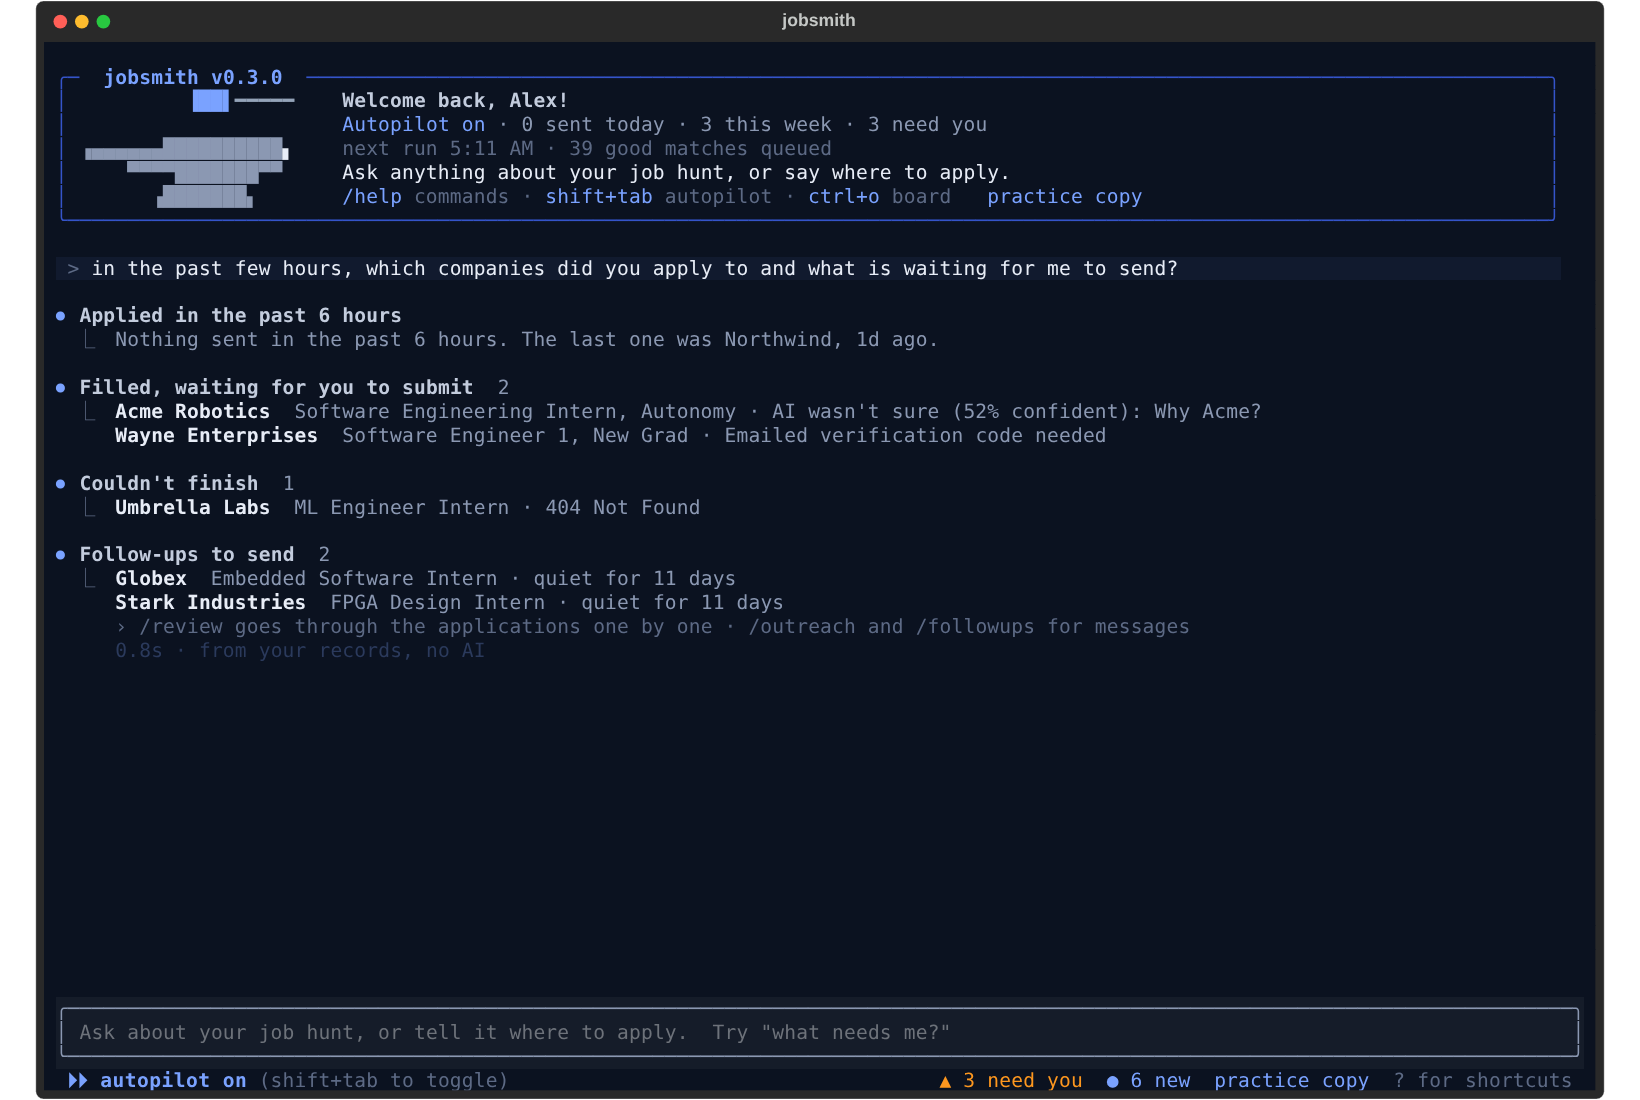
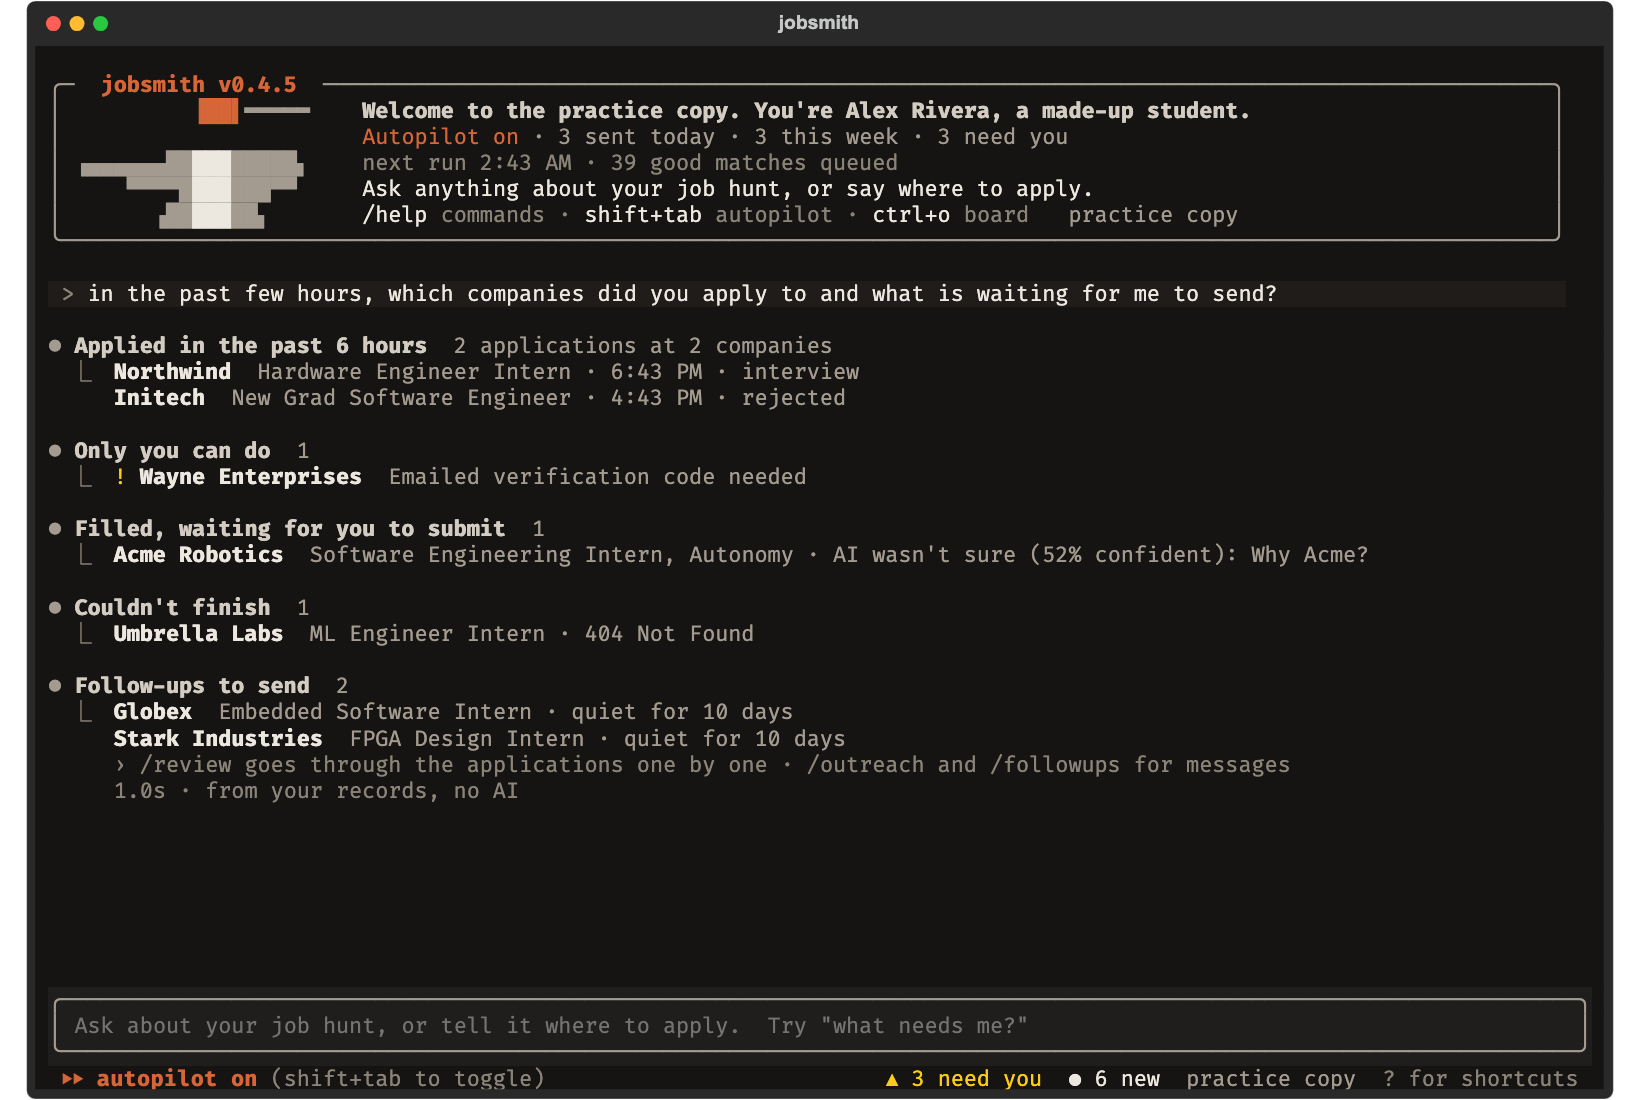
Give the terminal app the same warm charcoal
Match the dashboard's dark theme: warm charcoal instead of navy, the
lifted orange only for the logo, autopilot on, where you are, focus and
progress, and the status colours pinned to the dashboard's ochre, green
and crimson instead of the terminal's own yellow, green and red. Dim
text that sat at 1.8:1 now passes AA.

diff --git a/jobsmith/tuiapp.py b/jobsmith/tuiapp.py
@@ -31,15 +31,21 @@ from textual.css.query import NoMatches
 from textual.screen import ModalScreen, Screen
 from textual.widgets import DataTable, Footer, Input, Static, TextArea
 
-EMBER = "#7aa2ff"     # cobalt: the accent (named after the forge)
-EMBER_HI = "#c7d7ff"
-EMBER_LO = "#3554c9"
-STEEL = "#8b98b2"
-INK = "#e8edf7"
-DIM = "#5d6a85"
-FAINT = "#2b3a5c"
-BG = "#0b1220"
-SPARK = "#a5f3fc"
+# Warm charcoal like the dashboard's dark theme. EMBER is the extension panel's orange lifted for a dark background
+# (same hue), kept for the logo, "autopilot on", where you are, focus and progress; everything else is ink or grey.
+EMBER = "#d66638"     # the accent (named after the forge)
+EMBER_HI = "#ece7df"
+EMBER_LO = "#a39b90"
+STEEL = "#a39b90"
+INK = "#ece7df"
+DIM = "#8a8378"
+FAINT = "#403a34"
+BG = "#161412"
+CARD = "#1f1c19"
+WARN = "#facc15"
+OK = "#4ade80"
+BAD = "#fb7185"
+SPARK = "#ece7df"
 SPIN = "⠋⠙⠹⠸⠼⠴⠦⠧⠇⠏"
 STAR = "·✢✳✶✻✽✻✶✳✢"
 VERBS = ["Forging", "Hammering", "Tempering", "Smelting", "Annealing", "Quenching", "Riveting", "Smithing", "Shaping", "Polishing"]
@@ -62,7 +68,7 @@ LOGO = [
      "    ▀▀▀▀███████▀▀  ",
      "      ▗███████▖    "],
 ]
-WOOD = "#94a3b8"
+WOOD = "#a39b90"
 
 
 def logo_text(frame: int, glint: int = -1) -> Text:
@@ -131,7 +137,7 @@ class AskLine(ModalScreen[str]):
     """One line of input: a code, a key (hidden), a value."""
     DEFAULT_CSS = f"""
     AskLine {{ align: center middle; background: {BG} 60%; }}
-    #dlg {{ width: 70; height: auto; padding: 1 2; border: round {EMBER}; background: #111a2e; }}
+    #dlg {{ width: 70; height: auto; padding: 1 2; border: round {EMBER}; background: {CARD}; }}
     #hint {{ color: {DIM}; margin-top: 1; }}
     """
 
@@ -156,7 +162,7 @@ class AskLine(ModalScreen[str]):
 class EditAnswer(ModalScreen[str | None]):
     DEFAULT_CSS = f"""
     EditAnswer {{ align: center middle; background: {BG} 60%; }}
-    #dlg {{ width: 90%; height: 80%; padding: 1 2; border: round {EMBER}; background: #111a2e; }}
+    #dlg {{ width: 90%; height: 80%; padding: 1 2; border: round {EMBER}; background: {CARD}; }}
     #q {{ margin-bottom: 1; }}
     TextArea {{ height: 1fr; }}
     #hint {{ color: {DIM}; margin-top: 1; }}
@@ -215,17 +221,17 @@ class View(Screen):
     BINDINGS = [Binding("escape", "app.pop_screen", "Back")]
     DEFAULT_CSS = f"""
     View {{ background: {BG}; }}
-    .title {{ height: 1; padding: 0 1; background: #111a2e; }}
-    .panel {{ border: round #1e2a44; border-title-color: {STEEL}; padding: 0 1; background: {BG}; }}
+    .title {{ height: 1; padding: 0 1; background: {CARD}; }}
+    .panel {{ border: round #2f2b27; border-title-color: {STEEL}; padding: 0 1; background: {BG}; }}
     .panel:focus-within {{ border: round {EMBER}; border-title-color: {EMBER}; }}
     DataTable {{ background: {BG}; height: 1fr; scrollbar-size-horizontal: 0; scrollbar-size-vertical: 1;
                  scrollbar-color: {FAINT}; scrollbar-background: {BG}; }}
-    DataTable > .datatable--cursor {{ background: #1b2741; color: #f1f5ff; }}
+    DataTable > .datatable--cursor {{ background: #2a2622; color: {INK}; }}
     DataTable > .datatable--header {{ color: {DIM}; background: {BG}; }}
     .detail {{ height: 1fr; }}
     .fill {{ height: 1fr; }}
     #jobs {{ height: 1fr; }}
-    Footer {{ background: #111a2e; }}
+    Footer {{ background: {CARD}; }}
     """
 
     @property
@@ -291,7 +297,7 @@ class Review(View):
         keep = t.cursor_row
         t.clear()
         for r in rows:
-            mark = Text("✗", style="red") if r["status"] == "error" else Text("!", style="yellow")
+            mark = Text("✗", style=BAD) if r["status"] == "error" else Text("!", style=WARN)
             t.add_row(mark, Text(r["company"][:20], style="bold"), (r.get("hold_reason") or r.get("error") or "ready to submit")[:40], key=r["id"])
         self.query_one("#t", Static).update(self.heading((f"Review  {len(rows)} waiting for you", "bold"),
                                                        ("   a approve · e edit · s submit · k skip · esc back", DIM)))
@@ -327,8 +333,8 @@ class Review(View):
         t.clear()
         for x in self.drafts:
             val = (x.get("final_answer") or x.get("answer") or "").replace("\n", " ")
-            mark = (Text("✓", style="green") if x["verdict"] == "green" or x.get("final_answer") else
-                    Text("!", style="yellow") if self._problem(x, blockers) else Text("·", style=DIM))
+            mark = (Text("✓", style=OK) if x["verdict"] == "green" or x.get("final_answer") else
+                    Text("!", style=WARN) if self._problem(x, blockers) else Text("·", style=DIM))
             t.add_row(mark, x["label"][:46], Text(val[:60] or "(empty)", style=INK if val else "italic " + DIM), key=str(x["id"]))
         t.border_title = (f"{self.job['company']} · {self.job['title']}"[:70] +
                           ("   no answers yet" if not self.drafts else f"   {len(blockers)} to check" if blockers else "   ready to submit"))
@@ -338,7 +344,7 @@ class Review(View):
         else:
             why = self.job.get("hold_reason") or self.job.get("error") or ""
             self.query_one("#detail", Static).update(Group(
-                Text(why, style="yellow") if why else Text(""), Text(""),
+                Text(why, style=WARN) if why else Text(""), Text(""),
                 Text("Jobsmith hasn't drafted answers for this one yet. Press s to fill it in the browser; "
                      "it comes back here if anything needs you.", style=STEEL)))
 
@@ -368,7 +374,7 @@ class Review(View):
         if meta:
             parts += [Text(""), Text(" · ".join(meta), style=DIM)]
         for i in x.get("issues") or []:
-            parts.append(Text(f"! {i}", style="yellow"))
+            parts.append(Text(f"! {i}", style=WARN))
         if x.get("facts"):
             parts += [Text(""), Text("Based on", style=DIM)] + [Text(f"  {f.get('text', '')[:140]}", style=DIM) for f in x["facts"][:4]]
         self.query_one("#detail", Static).update(Group(*parts))
@@ -458,7 +464,7 @@ class Matches(View):
         self.rows = {r["id"]: r for r in rows}
         for j in rows:
             fit = round(j.get("fit_score") or 0)
-            t.add_row(Text(f"{fit:>3}", style=EMBER if fit >= 70 else INK if fit >= 50 else DIM), Text(j["company"][:22], style="bold"),
+            t.add_row(Text(f"{fit:>3}", style=f"bold {INK}" if fit >= 70 else INK if fit >= 50 else DIM), Text(j["company"][:22], style="bold"),
                       j["title"][:46], (j.get("locations") or [""])[0][:22], j.get("pay") or "", ago(j.get("date_posted")), key=j["id"])
         self.query_one("#t", Static).update(self.heading((f"Matches  {len(rows)}", "bold"), ("   enter apply · f fill only · x not for me · o open · esc back", DIM)))
         t.focus()
@@ -531,7 +537,7 @@ class Outreach(View):
                 dr = next((x for x in c["drafts"] if x["person"] == name), None)
                 k = f"{c['job_id']}|{name}"
                 self.rows[k] = {"company": c["company"], "job_id": c["job_id"], "person": p, "draft": dr}
-                status = Text("sent", style="green") if dr and dr["sent_at"] else Text("drafted", style=EMBER) if dr else Text("")
+                status = Text("sent", style=OK) if dr and dr["sent_at"] else Text("drafted", style=STEEL) if dr else Text("")
                 t.add_row(Text(c["company"][:22], style="bold"), name, (p.get("position") or "")[:34], status, key=k)
         self.query_one("#t", Static).update(self.heading(("Outreach", "bold"), ("   r referral ask · n recruiter note · y copy · s I sent it · esc back", DIM)))
         if not self.rows:
@@ -566,7 +572,7 @@ class Outreach(View):
         r = self.sel()
         if not r:
             return
-        self.app.call_from_thread(self.query_one("#detail", Static).update, Text("Drafting…", style=EMBER))
+        self.app.call_from_thread(self.query_one("#detail", Static).update, Text("Drafting…", style=STEEL))
         d = self.send("POST", "/api/outreach/draft", {"job_id": r["job_id"], "person": r["person"], "kind": kind}, timeout=120)
         self.last = d if not d.get("error") else {}
         self.app.call_from_thread(self.load)
@@ -685,7 +691,7 @@ class Settings(View):
             shown = ("set" if v else "not set") if opts is None else str(v if v not in (None, "") else "auto")
             if k == "autopilot_min_confidence" and v not in (None, ""):
                 shown = f"{round(float(v) * 100)}% confident"
-            t.add_row(Text(label, style="bold"), Text(shown, style=EMBER if opts is None and v else INK), Text("enter to change", style=DIM), key=k)
+            t.add_row(Text(label, style="bold"), Text(shown, style=f"bold {INK}" if opts is None and v else INK), Text("enter to change", style=DIM), key=k)
         t.move_cursor(row=min(keep, t.row_count - 1))
         t.focus()
         self.query_one("#t", Static).update(self.heading(("Settings", "bold"), ("   enter change · esc back", DIM)))
@@ -753,7 +759,7 @@ class Board(View):
             tab = tabs.get(jid, {})
             pr = (st.get("progress") or {}).get(jid) or {"step": 0, "total": 5, "label": ""}
             ph = tab.get("phase") or st["active"].get(jid, "")
-            mark = (Text("✓", style="green") if ph == "submitted" else Text("!", style="yellow") if ph in ("code", "review", "error")
+            mark = (Text("✓", style=OK) if ph == "submitted" else Text("!", style=WARN) if ph in ("code", "review", "error")
                     else Text(SPIN[self.app.frame % len(SPIN)], style=EMBER))
             company, title = self.app.job_name(jid, tab)
             t.add_row(mark, Text(company, style="bold"), title[:40], bar(pr["step"], pr["total"]),
@@ -765,13 +771,13 @@ class Board(View):
         k2 = n.cursor_row
         n.clear()
         for r in (home or {}).get("review", [])[:30]:
-            n.add_row(Text("!", style="yellow"), Text(r["company"], style="bold"), (r.get("hold_reason") or r.get("error") or "ready")[:60], key=r["id"])
+            n.add_row(Text("!", style=WARN), Text(r["company"], style="bold"), (r.get("hold_reason") or r.get("error") or "ready")[:60], key=r["id"])
         n.move_cursor(row=min(k2, max(0, n.row_count - 1)))
         b = self.query_one("#bell", DataTable)
         k3 = b.cursor_row
         b.clear()
         for it in (notes or {}).get("items", [])[:30]:
-            mark = Text("●", style=EMBER) if it.get("urgent") else Text("•", style=EMBER if it.get("unread") else FAINT)
+            mark = Text("●", style=WARN) if it.get("urgent") else Text("•", style=INK if it.get("unread") else DIM)
             b.add_row(mark, it["title"][:60], time.strftime("%I:%M", time.localtime(it["at"])).lstrip("0") if it.get("at") else "", key=it["id"])
         b.move_cursor(row=min(k3, max(0, b.row_count - 1)))
         self.query_one("#t", Static).update(self.heading(("Board", "bold"), ("   live from your engine · r review · w watch · t take over · esc back", DIM)))
@@ -833,18 +839,18 @@ class Prompt(Input):
 class Jobsmith(App):
     TITLE = "jobsmith"
     CSS = f"""
-    Screen {{ background: {BG}; color: #c3ccdd; layers: base; }}
+    Screen {{ background: {BG}; color: #d2ccc2; layers: base; }}
     #chat {{ height: 1fr; padding: 0 1; scrollbar-size-vertical: 1; scrollbar-color: {FAINT}; scrollbar-background: {BG}; }}
     #welcome {{ height: auto; border: round {EMBER_LO}; border-title-color: {EMBER}; border-title-style: bold; padding: 0 1; margin: 1 0; }}
     #logo {{ width: 21; height: 5; }}
     #hello {{ width: 1fr; height: auto; padding-left: 1; }}
-    .you {{ color: {STEEL}; background: #111a2e; padding: 0 1; margin-top: 1; }}
+    .you {{ color: {STEEL}; background: {CARD}; padding: 0 1; margin-top: 1; }}
     .blk {{ height: auto; }}
     .gap {{ margin-top: 1; }}
     #think {{ height: auto; padding: 0 1; display: none; }}
     #live {{ height: auto; padding: 0 1; display: none; }}
     #menu {{ height: auto; padding: 0 2; display: none; }}
-    #prompt {{ height: 3; border: round #2b3a5c; background: {BG}; margin: 0 1; padding: 0 1; }}
+    #prompt {{ height: 3; border: round {FAINT}; background: {BG}; margin: 0 1; padding: 0 1; }}
     #prompt:focus {{ border: round {STEEL}; }}
     #status {{ height: 1; padding: 0 2; }}
     """
@@ -923,8 +929,8 @@ class Jobsmith(App):
                           ("Autopilot " + ("on" if on else "off"), EMBER if on else STEEL), (" · " + " · ".join(bits) if home else "", STEEL), "\n",
                           (" · ".join(more), DIM), "\n",
                           ("Ask anything about your job hunt, or say where to apply.", INK), "\n",
-                          ("/help", EMBER), (" commands · ", DIM), ("shift+tab", EMBER), (" autopilot · ", DIM), ("ctrl+o", EMBER), (" board", DIM),
-                          ("   practice copy" if st.get("demo") else "", EMBER))
+                          ("/help", INK), (" commands · ", DIM), ("shift+tab", INK), (" autopilot · ", DIM), ("ctrl+o", INK), (" board", DIM),
+                          ("   practice copy" if st.get("demo") else "", STEEL))
         self.query_one("#hello", Static).update(t)
 
     # ------------------------------------------------------------------ the conversation
@@ -937,19 +943,19 @@ class Jobsmith(App):
         self.mount_block(Text.assemble(("> ", DIM), (text, INK)), "you")
 
     def say(self, markup: str) -> None:
-        self.mount_block(Text.assemble(("⏺ ", EMBER), Text.from_markup(markup)), "blk gap")
+        self.mount_block(Text.assemble(("⏺ ", STEEL), Text.from_markup(markup)), "blk gap")
 
     def render_block(self, b: dict, first: bool) -> Text | Table:
         t = b.get("t")
         lead = ("  ⎿  " if first else "     ", DIM)
         if t == "head":
             title, _, count = b["text"].partition("  ")
-            return Text.assemble(("⏺ ", EMBER), (title, "bold"), (f"  {count}" if count else "", STEEL))
+            return Text.assemble(("⏺ ", STEEL), (title, "bold"), (f"  {count}" if count else "", STEEL))
         if t == "item":
-            mark = ("! ", "yellow") if b.get("urgent") else (SPIN[self.frame % len(SPIN)] + " ", EMBER) if b.get("live") else ("", "")
+            mark = ("! ", WARN) if b.get("urgent") else (SPIN[self.frame % len(SPIN)] + " ", EMBER) if b.get("live") else ("", "")
             return Text.assemble(lead, mark, (b["text"], "bold " + INK), ("  " + b.get("meta", ""), STEEL) if b.get("meta") else "")
         if t == "stat":
-            return Text.assemble(lead, (f"{b['text']:>5}", f"bold {EMBER}"), ("  " + b.get("meta", ""), INK))
+            return Text.assemble(lead, (f"{b['text']:>5}", f"bold {INK}"), ("  " + b.get("meta", ""), INK))
         if t == "qa":
             return Text.assemble(lead, (b["text"], "bold"), "\n", ("       " + b.get("meta", "").replace("\n", "\n       "), STEEL))
         if t == "example":
@@ -993,7 +999,7 @@ class Jobsmith(App):
         if self.cancel:
             self.call_from_thread(self.mount_block, Text("  ⎿  Interrupted", style=DIM))
         elif n:
-            self.call_from_thread(self.mount_block, Text(f"     {time.time() - t0:.1f}s · from your records, no AI", style=FAINT))
+            self.call_from_thread(self.mount_block, Text(f"     {time.time() - t0:.1f}s · from your records, no AI", style=DIM))
 
     _last_t = ""
 
@@ -1146,9 +1152,9 @@ class Jobsmith(App):
 
     def show_help(self, short: bool = False) -> None:
         if short:
-            self.mount_block(Text.assemble(("  shift+tab ", EMBER), ("autopilot on/off   ", DIM), ("ctrl+o ", EMBER), ("board   ", DIM),
-                                           ("/ ", EMBER), ("commands   ", DIM), ("↑ ", EMBER), ("history   ", DIM), ("esc ", EMBER), ("cancel   ", DIM),
-                                           ("ctrl+c ", EMBER), ("twice to quit", DIM)), "blk gap")
+            self.mount_block(Text.assemble(("  shift+tab ", INK), ("autopilot on/off   ", DIM), ("ctrl+o ", INK), ("board   ", DIM),
+                                           ("/ ", INK), ("commands   ", DIM), ("↑ ", INK), ("history   ", DIM), ("esc ", INK), ("cancel   ", DIM),
+                                           ("ctrl+c ", INK), ("twice to quit", DIM)), "blk gap")
             return
         self.say("[b]Ask[/] anything about your job hunt. Answers come from your records, instantly, with no AI:")
         from .ask import EXAMPLES
@@ -1156,7 +1162,7 @@ class Jobsmith(App):
             self.mount_block(Text.assemble(("  ⎿  " if i == 0 else "     ", DIM), ("“" + ex + "”", EMBER_HI)))
         self.say("[b]Tell it where to apply[/]: a company and role, a job link, or a GitHub list.")
         t = Table.grid(padding=(0, 2))
-        t.add_column(style=EMBER, no_wrap=True)
+        t.add_column(style=INK, no_wrap=True)
         t.add_column(style=STEEL, no_wrap=True)
         t.add_column(style=INK)
         for name, args, what in COMMANDS:
@@ -1366,16 +1372,16 @@ class Jobsmith(App):
         left = Text.assemble(("⏵⏵ autopilot on", f"bold {EMBER}") if on else ("⏸ autopilot off", STEEL), (" (shift+tab to toggle)", DIM))
         right = []
         if time.time() - self.ctrl_c_at < 1.5:
-            right = [("Press ctrl+c again to exit", "yellow")]
+            right = [("Press ctrl+c again to exit", WARN)]
         else:
             if st.get("needs_you"):
-                right += [(f"▲ {st['needs_you']} need you", "yellow"), ("  ", "")]
+                right += [(f"▲ {st['needs_you']} need you", WARN), ("  ", "")]
             if notes.get("unread"):
-                right += [(f"● {notes['unread']} new", EMBER), ("  ", "")]
+                right += [(f"● {notes['unread']} new", INK), ("  ", "")]
             if self.connected is False:
-                right += [("engine offline", "red"), ("  ", "")]
+                right += [("engine offline", BAD), ("  ", "")]
             if st.get("demo"):
-                right += [("practice copy", EMBER), ("  ", "")]
+                right += [("practice copy", STEEL), ("  ", "")]
             right += [("? for shortcuts", DIM)]
         r = Text.assemble(*right)
         w = max(10, self.size.width - 4 - len(left) - len(r))
@@ -1422,7 +1428,7 @@ class Jobsmith(App):
                 tab = tabs.get(jid, {})
                 pr = (st.get("progress") or {}).get(jid) or {"step": 0, "total": 5, "label": ""}
                 ph = tab.get("phase") or st.get("active", {}).get(jid, "")
-                mark = (("✓", "green") if ph == "submitted" else ("!", "yellow") if ph in ("code", "review", "error")
+                mark = (("✓", OK) if ph == "submitted" else ("!", WARN) if ph in ("code", "review", "error")
                         else (SPIN[(self.frame + i) % len(SPIN)], EMBER))
                 t.append("\n")
                 t.append_text(Text.assemble(("  ⎿  " if i == 0 else "     ", DIM), mark, " ", (f"{self.job_name(jid, tab)[0][:22]:<23}", "bold " + INK),
